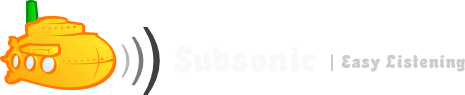
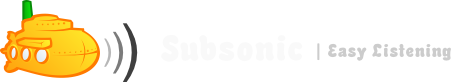
New web.

Changed region(s): [[0.0, 0.0, 0.3725, 1.0], [0.6829, 0.5366, 1.0, 0.7561]]

diff --git a/subsonic-web/inc/css/style.css b/subsonic-web/inc/css/style.css
@@ -101,9 +101,9 @@ ol {
 #logo {
 	position: absolute;
 	left: 20px;
-	top: 20px;
-	width: 465px;
-	height: 95px;
+	top: 28px;
+	width: 451px;
+	height: 82px;
 	z-index: 9999;
 }
 #content {
